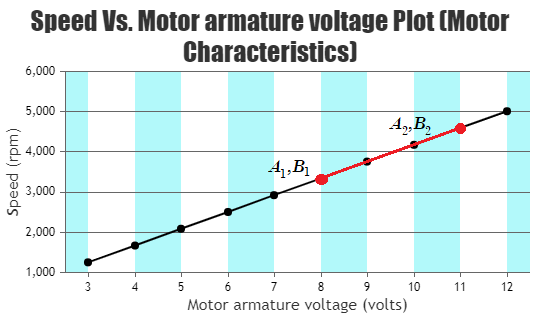
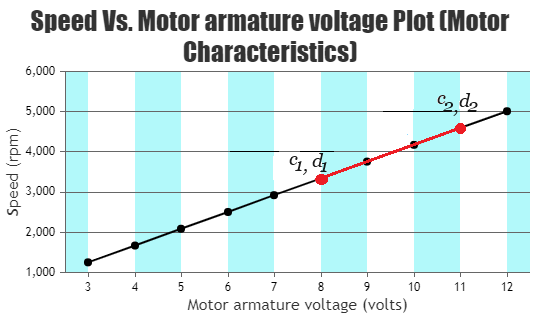
updatedmay14

Changed region(s): [[0.7111, 0.2804, 0.8889, 0.4361], [0.5037, 0.4673, 0.6222, 0.5607]]

diff --git a/experiment/simulation/js/demo.js b/experiment/simulation/js/demo.js
@@ -76,7 +76,7 @@ jsPlumb.ready(function () {
 					
 			endpoint_oven = {
             anchor: [0.5, 0.5, 0, -1],
-            connectorStyle: { strokeWidth: 10, stroke: "grey" },
+            connectorStyle: { strokeWidth: 9, stroke: "grey" },
             endpointsOnTop: true,
             isSource: true,
             maxConnections: 1,
@@ -90,7 +90,7 @@ jsPlumb.ready(function () {
             return instance_black.addEndpoint(elId, endpoint_oven);
 					},
 					
-					endpoint_oven2 = {
+					endpoint_ovenlod = {
             anchor: [0.5, 0.5, 0, -1],
             connectorStyle: { strokeWidth: 15, stroke: "grey" },
             endpointsOnTop: true,
@@ -100,10 +100,10 @@ jsPlumb.ready(function () {
             dropOptions: { tolerance: "touch", hoverClass: "dropHover" }
         },
 
-		prepare_oven2 = function (elId) {
+		prepare_ovenlod = function (elId) {
             initAnimation(elId);            			
 			
-            return instance_black2.addEndpoint(elId, endpoint_oven2);
+            return instance_ovenlod.addEndpoint(elId, endpoint_ovenlod);
 					},					
 					
 
@@ -137,9 +137,9 @@ jsPlumb.ready(function () {
         Container: "canvas"
     });
 	
-	instance_black2 = jsPlumb.getInstance({
+	instance_ovenlod = jsPlumb.getInstance({
         DragOptions: { cursor: 'wait', zIndex: 20 },
-        Endpoint: [ "Image", { url: "./images/ovendot.png" } ],
+        Endpoint: [ "Image", { url: "./images/loddot.png" } ],
         Connector: [ "Bezier", { curviness:80 } ],
         Container: "canvas"
     });
@@ -178,8 +178,7 @@ jsPlumb.ready(function () {
             e.stopPropagation();
             instance.detachEveryConnection();
         });*/
-		
-		
+				
              instance.connect({ source: e5, target: e6 });
 			 
 			 //delete clicked connection

diff --git a/experiment/simulation/index.html b/experiment/simulation/index.html
@@ -102,16 +102,15 @@ font-style: italic;
 
             </div><!--First col under 2nd row end-->
             <div class="col-md-6"><!--2nd col under 2nd row start-->
-                <p class="h1"> <b>Simulation </b> </p>
+                <p class="h1"> <b>Simulation</b> </p>
             </div><!--2nd col under 2nd row end-->
             <div class="col-md-3"><!--3rd col under 2nd row start-->
 
             </div><!--3rd col under 2nd row end-->
         </div><!--2nd row under 1st container end-->
         <hr>
-       
+        
     </div><!--First Container under body tag end-->
-    
     
 	
     <div class="container p-3 my-5 text-left border"><!--3rd Container under body tag start-->
@@ -469,7 +468,7 @@ font-style: italic;
 		
 	 
 			<div class="col-md-12">
-				<div id = "plotbucket" class="content-center" style="display:none; position :relative; border:3px solid white;height:530px;width:823px ">
+				<div id = "plotbucket" class="content-center" style="display:none; position: relative; border:3px solid white;height:530px;width:823px ">
 				<button type="button" id="exportChart" class="btn btn-primary"  style="display:none;position:absolute;left:20%;">Download Plot</button>
 				<button type="button" id="result" class="btn btn-primary" onclick="Refresh()"  style="display:none;position:absolute;left:35%">OK</button><br/><br/>
 					<div id="chartContainer"  style="display:none; position:absolute; height: 50%; width: 40%;z-index:1 "></div>

diff --git a/experiment/simulation/css/DC.css b/experiment/simulation/css/DC.css
@@ -130,19 +130,20 @@ tr:nth-child(odd) {
   }
    #bd5{
     position: absolute;
-    left: 74%;
-    bottom: 6%;
+    left: 44%;/*74%;*/
+    bottom: 17%;/*6%;*/
     padding: 4px;
 	
   }
 
  #bd6{
     position: absolute;
-    left: 93.8%;
-    bottom: 85.2%;
+    left: 49.8%;/*93.8%;*/
+    bottom: 99%;/*85.2%;*/
     padding: 4px;
     visibility: hidden;
  }
+
 
  .fontCss{
   font-family:'Bodoni MT';
@@ -153,6 +154,12 @@ tr:nth-child(odd) {
   font-family:'Bodoni MT';
   
   font-style: italic; 
+  }
+  .fontCss3{
+  font-family:'Georgia';
+  
+  font-style: italic; 
+  font-weight: 400;
   }
 
 

diff --git a/experiment/simulation/js/DC.js b/experiment/simulation/js/DC.js
@@ -548,11 +548,11 @@ document.getElementById('chartContainer').style.display  = "none";
 	  
 	  axisX:{
         interlacedColor: "#B2F9FA",
-        title: "Time (sec.)"
+        title: "Time (sec)"
       },
     axisY: [
 	      {/////output Y axis
-            title: "Motor speed(ω (t))",
+            title: "Motor speed ω(t)",
 			
 			//maximum:0.03,
         }		

diff --git a/experiment/theory.md b/experiment/theory.md
@@ -1,8 +1,7 @@
 # Theory
 
 The first step in the analysis of control system is to derive its mathematical model to understand the working of the complete system.
-<br><br>
-
+               			   
 <b>The Plant (Coupled-DC Motor-Generator Set):</b><br/>
 
 In a dc motor, an armature rotates inside a magnetic field. The basic working principle of a dc motor is based on the fact that when ever
@@ -17,7 +16,7 @@ the operation of a dc motor.
 
 <div align="center" >				
 <img alt="" class="img-fluid" src="./images/pmdc.png" class="img-fluid"><br/>
-<b>Fig 1: Permanent Magnet DC Motor</b>
+<b>Fig. 1. Permanent Magnet DC Motor</b>
 </div><br>
 
 <br/><b>Mechanical Section:</b><br/>
@@ -43,11 +42,11 @@ The specifications of the main experimental dc motor are:<br/>
 The field poles of this motor are essentially made of permanent magnet. This motor mainly consists of two parts.
 A stator and an armature. Here the stator is a steel cylinder. The magnets are mounted in the inner periphery of this cylinder.
 The permanent magnets are mounted in such a way that the N-pole and S-pole of each magnet are alternatively faced towards the armature
-as shown in the fig 2.
+as shown in the Fig. 2.
 
 <div align="center">				
 <img alt="" class="img-fluid" src="./images/t1.png" class="img-fluid"><br/>
-<b>Fig 2: Cross section of PMDC Motor</b>
+<b>Fig. 2. Cross section of PMDC Motor</b>
 </div><br>				
 
 <br/><b>Working Principle:</b><br/>
@@ -63,12 +62,12 @@ Each conductor of the armature experiences a force and the compilation of those 
 
 <div align="center">				
 <img alt="" class="img-fluid" src="./images/t2.png" class="img-fluid"><br/>
-<b>Fig 3: Schematic diagram of DC Motor</b>
+<b>Fig. 3. Schematic diagram of DC Motor</b>
 </div><br>
 
 <b>DC Motor model </b><br>
 
-The schematic diagram of a dc motor is shown in fig 3 where the following notations are used<br>
+The schematic diagram of a dc motor is shown in Fig. 3 where the following notations are used<br>
 <span class="fontCss">e<sub>a</sub></span> : Armature voltage (volts)<br>
 <span class="fontCss">i<sub>a</sub></span> : Armature current (amp.)<br>
 <span class="fontCss2">R<sub>a</sub></span> : Armature resistance (ohms)<br>
@@ -147,7 +146,12 @@ $$T_M = K_T I_a = \frac{-K_T K_b}{R_a}\omega + \frac{K_T}{R_a}E_a    -----(2)$$
 Here <span class="fontCss2">T<sub>M</sub>, E<sub>a</sub>, E<sub>b</sub></span>, <span class="fontCss2">I<sub>a</sub></span> and <span class="fontCss2">&omega;</span> are the steady state values of the motor torque, applied
 armature voltage, back emf, armature current and angular velocity of the shaft.<br/>
 
-A typical plot of the equation (2) is shown in fig 4. This assumes a linear torque-speed behaviour.<br/><br/>
+A typical plot of the equation (2) is shown in Fig. 4. This assumes a linear torque-speed behaviour.<br/><br/>
+
+<div align="center">				
+<img alt="" class="img-fluid" src="./images/t3.png" class="img-fluid"><br/>
+<b> Fig. 4. Torque - Speed Characteristics</b>
+</div><br>
 
 As the motor runs at a constant speed,<br/>
 Electrical power input, <span class="fontCss2">P<sub>in</sub> = E<sub>a</sub> &times; I<sub>a</sub></span> Watts <br/>
@@ -176,7 +180,7 @@ At steady state (<span class="fontCss2">&omega;</span> = constant) the load torq
 
 $$T_M = B \omega + T_L ...(4)$$ 
 
-$$Where, \ T_L \ = \ Load \ Torque$$
+where, <span class="fontCss2">T<sub>L</sub></span>  = Load Torque<br/><br/>
 
 
 
@@ -188,10 +192,7 @@ the following expression is used to compute	the motor torque <span class="fontCs
 
 $$T_M = K_T I_a = K_b I_a = \frac{E_b}{\omega} I_a = \frac{E_a - I_a R_a}{\omega} I_a .....(5)$$
 
-<div align="center">				
-<img alt="" class="img-fluid" src="./images/t3.png" class="img-fluid"><br/>
-<b> Fig 4: Torque - Speed Characteristics</b>
-</div><br>
+
 
 Two motor parameters, <span class="fontCss2">B</span> and <span class="fontCss2">K<sub>b</sub></span>, may therefore be determined from the torque-speed
 characteristics obtained under steady state conditions or constant speed operation of the motor. <br><br>
@@ -204,23 +205,25 @@ $$e_a(t) = E \ U(t), \ i.e. \ E_a(s) = \frac{1}{s}E$$
 
 The motor speed will follow the expression,
 
-$$\omega(t)= E \ K_M (1- e^\frac{-t}{\tau_m}), \ as \ shown \ in  \ fig \ 5$$
+$$\omega(t)= E \ K_M (1- e^\frac{-t}{\tau_m})$$
+
+as shown in Fig. 5<br/><br/>
 
 The step response is very similar to that of an RC circuit charging from a step voltage input.
-The parameters of interest <span class="fontCss2">E K<sub>M</sub></span> and <span class="fontCss">&tau;<sub>m</sub></span> are indicated in fig 5. 
+The parameters of interest <span class="fontCss2">E K<sub>M</sub></span> and <span class="fontCss">&tau;<sub>m</sub></span> are indicated in Fig. 5. 
 
 The steady state speed <span class="fontCss2">N</span>, and hence the value of <span class="fontCss2">K<sub>M</sub></span> can easily be computed or measured.
 
 $$\omega(t)\vert_{t\rightarrow\infty} = \omega_{ss} = E \ K_M$$
 
-$$or, \ K_M = \frac{N}{E} \frac{rpm}{volt} = \frac{\pi N}{30 E_a} \ \frac{rad/s}{volt}$$
+$$or, \ K_M = \frac{N}{E} \frac{rpm}{volt} = \frac{\pi N}{30 E} \ \frac{rad/s}{volt}$$
 
 <span class="fontCss">&tau;<sub>m</sub></span> is the time taken by the motor speed to rise from zero and attain 63.2% of 
 <i style="font-family:'Sitka Text'">&omega;<sub>ss</suab></i>, where <i style="font-family:'Sitka Text'">&omega;<sub>ss</suab></i> is the steady state speed (rad/s) of the motor.
 
 <div align="center">				
 <img alt="" class="img-fluid" src="./images/t4.png" class="img-fluid"><br/>
-<b>Fig 5: Step response of the motor</b>
+<b>Fig. 5. Step response of the motor</b>
 </div><br><br/>
 
 <b>Calculations from plots:</b><br/>
@@ -228,51 +231,53 @@ $$or, \ K_M = \frac{N}{E} \frac{rpm}{volt} = \frac{\pi N}{30 E_a} \ \frac{rad/s}
 <b>Calculation of the motor constant <span class="fontCss2">K<sub>M</sub></span> (rpm/volts), generator constant <span class="fontCss2">K<sub>G</sub></span> (volts/rpm) and viscous friction coefficient of motor (<span class="fontCss2">B</span>) :</b><br/>
 
 The motor constant <span class="fontCss2">K<sub>M</sub></span> is calculated from the plot 'Speed (<span class="fontCss2">N</span>) Vs. Motor armature voltage (<span class="fontCss2">E<sub>a</sub></span>)' as
-shown in fig 6. Consider a slope is taken between points (<span class="fontCss2">A<sub>2</sub>,B<sub>2</sub></span>) and (<span class="fontCss2">A<sub>1</sub>,B<sub>1</sub></span>) first. then the <span class="fontCss2">K<sub>M</sub></span> will be
+shown in Fig. 6. Consider a slope is taken between points (<span class="fontCss3">c<sub>2</sub>, d<sub>2</sub></span>) and (<span class="fontCss3">c<sub>1</sub>, d<sub>1</sub></span>) first. then the <span class="fontCss2">K<sub>M</sub></span> will be
 
-$$K_M = \frac{B_{2} - B_{1}}{A_{2} - A_{1}} \ rpm/volts$$
+$$K_M = \frac{d_{2} - d_{1}}{c_{2} - c_{1}} \ rpm/volts$$
 
-Where, <span class="fontCss2">B<sub>2</sub></span> is speed (rpm) of the motor at armature voltage of <span class="fontCss2">A<sub>2</sub></span> volts and 
-<span class="fontCss2">B<sub>1</sub></span> is speed (rpm) of the motor at armature voltage of <span class="fontCss2">A<sub>1</sub></span> volts.
+Where, <span class="fontCss3">d<sub>2</sub></span> is speed (rpm) of the motor at armature voltage of <span class="fontCss3">c<sub>2</sub></span> volts and 
+<span class="fontCss3">d<sub>1</sub></span> is speed (rpm) of the motor at armature voltage of <span class="fontCss3">c<sub>1</sub></span> volts.
 <br/>
 <div align="center">				
 <img alt="" class="img-fluid" src="./images/Chart1.jpg" class="img-fluid"><br/>
-<b>Fig 6: Motor constant <span class="fontCss2">K<sub>M</sub></span> calculation</b>
+<b>Fig. 6. Motor constant <span class="fontCss2">K<sub>M</sub></span> calculation</b>
 </div><br><br/>
 
 The generator constant <span class="fontCss2">K<sub>G</sub></span> is calculated from the plot 
 'Generator voltage (<span class="fontCss2">E<sub>g</sub></span>) Vs. Speed (<span class="fontCss2">N</span>)' as
-shown in fig 7. Consider a slope is taken between points (<span class="fontCss2">A<sub>2</sub>,B<sub>2</sub></span>) and (<span class="fontCss2">A<sub>1</sub>,B<sub>1</sub></span>) first. Then the <span class="fontCss2">K<sub>G</sub></span> will be
+shown in Fig. 7. Consider a slope is taken between points (<span class="fontCss3">c<sub>2</sub>, d<sub>2</sub></span>) and (<span class="fontCss3">c<sub>1</sub>, d<sub>1</sub></span>) first. Then the <span class="fontCss2">K<sub>G</sub></span> will be
 
-$$K_G = \frac{B_{2} - B_{1}}{A_{2} - A_{1}} \ volts/rpm$$
+$$K_G = \frac{d_{2} - d_{1}}{c_{2} - c_{1}} \ volts/rpm$$
 
-Where, <span class="fontCss2">B<sub>2</sub></span> is generator voltage (volts) at speed of <span class="fontCss2">A<sub>2</sub></span> rpm and 
-<span class="fontCss2">B<sub>1</sub></span> is generator voltage (volts) at speed of <span class="fontCss2">A<sub>1</sub></span> rpm.
+Where, <span class="fontCss3">d<sub>2</sub></span> is generator voltage (volts) at speed of <span class="fontCss3">c<sub>2</sub></span> rpm and 
+<span class="fontCss3">d<sub>1</sub></span> is generator voltage (volts) at speed of <span class="fontCss3">c<sub>1</sub></span> rpm.
 <br/>
 <div align="center">				
 <img alt="" class="img-fluid" src="./images/Chart2.jpg" class="img-fluid"><br/>
-<b>Fig 7: Generator constant <span class="fontCss2">K<sub>G</sub></span> calculation</b>
+<b>Fig. 7. Generator constant <span class="fontCss2">K<sub>G</sub></span> calculation</b>
 </div><br><br/>
 
 The viscous friction coefficient of motor (<span class="fontCss2">B</span>) is calculated from the plot 
 'Torque (<span class="fontCss2">T<sub>M</sub></span>) Vs. Speed (<span class="fontCss2">N</span>)' as
-shown in fig 8. Consider a slope is taken between points (<span class="fontCss2">A<sub>2</sub>,B<sub>2</sub></span>) and (<span class="fontCss2">A<sub>1</sub>,B<sub>1</sub></span>) first. Then the <span class="fontCss2">B</span> will be
+shown in Fig. 8. Consider a slope is taken between points (<span class="fontCss3">c<sub>2</sub>, d<sub>2</sub></span>) and (<span class="fontCss3">c<sub>1</sub>, d<sub>1</sub></span>) first. Then the <span class="fontCss2">B</span> will be
 
-$$B = \frac{B_{2} - B_{1}}{A_{2} - A_{1}} \ newton-meter/rpm$$
+$$B = \frac{d_{2} - d_{1}}{c_{2} - c_{1}} \ newton-meter/rpm$$
 
-Where, <span class="fontCss2">B<sub>2</sub></span> is torque (newton-meter) at speed of <span class="fontCss2">A<sub>2</sub></span> rpm and 
-<span class="fontCss2">B<sub>1</sub></span> is torque (newton-meter) at speed of <span class="fontCss2">A<sub>1</sub></span> rpm.
+Where, <span class="fontCss3">d<sub>2</sub></span> is torque (newton-meter) at speed of <span class="fontCss3">c<sub>2</sub></span> rpm and 
+<span class="fontCss3">d<sub>1</sub></span> is torque (newton-meter) at speed of <span class="fontCss3">c<sub>1</sub></span> rpm.
 Calculate <span class="fontCss2">B</span> in newton-meter/rad/sec. The negative sign in calculation will depict negative slope (ignore it for calculating the motor inertia <span class="fontCss2">J</span>).
 <br/>
 <div align="center">				
 <img alt="" class="img-fluid" src="./images/Chart3.png" class="img-fluid"><br/>
-<b>Fig 8: Viscous friction coefficient of motor (<span class="fontCss2">B</span>) calculation</b>
+<b>Fig. 8. Viscous friction coefficient of motor (<span class="fontCss2">B</span>) calculation</b>
 </div><br><br/>
 
 The motor inertia <span class="fontCss2">J</span> (newton-meter/rad/sec<sup>2</sup>) is calculated using the formula below (<span class="fontCss">&tau;<sub>m</sub></span> is taken in sec):
 
-$$J = \tau_m (B + \frac{{K_b}^2}{R_a}) \ where, \tau_m \ is \ the \ motor \ time \ constant \ and \ R_a = 4 \Omega$$
+$$J = \tau_m (B + \frac{{K_b}^2}{R_a})$$
 
+where, <span class="fontCss">&tau;<sub>m</sub></span> is the motor time constant and <span class="fontCss2">R<sub>a</sub></span> = 4 &ohm;
+				
 
 				
 <link href="./simulation/css/DC.css" rel="stylesheet">			    

diff --git a/README.md b/README.md
@@ -7,7 +7,7 @@
 <b>Discipline | <b> Electrical Engineering 
 :--|:--|
 <b> Lab | <b> **Control and Instrumentation Lab**
-<b> Experiment|     <b> **Study of DC Motor and Experiment 7**
+<b> Experiment|     <b> **Study of DC Motor**
 
 
 ### About the Experiment 
@@ -15,7 +15,7 @@
 
 DC motors are most commonly used as actuators in electro-mechanical control systems or servo mechanisms. Compared to actuators like 2-phase ac motor and stepper motor, the dc motor has the advantage of higher torque and simpler driving circuit. However the presence of a commutator and a set of brushes with the problems of 
 sparking make the dc motor less durable. 
-
+					
 The study of the dynamic characteristics of the dc motor is important because the overall performance of the control system depends on it.
 
 This experiment is designed to obtain the torque-speed characteristics, compute the various parameters and finally determine the transfer function of a dc motor.			  

diff --git a/.github/ISSUE_TEMPLATE/experiment-review-request.md b/.github/ISSUE_TEMPLATE/experiment-review-request.md
@@ -1,0 +1,16 @@
+---
+name: Experiment  Review Request
+about: 'Get your experiment reviewed '
+title: 'Request for Review of Experiment - '
+labels: request for review
+assignees: ''
+
+---
+
+## *Experiment  Review Request*
+Use this to get experiment reviewed.
+
+1. *Exp Name*:<!--Fill the name of the experiment-->
+2. *Domain*:<!-- Fill the domain/discipline that the experiment belongs to-->
+3. *Lab Name*:<!-- Fill the name of the lab that the experiment belongs to-->
+4. *Testing URL*:<!-- https://virtual-labs.github.io/${{ github.repository }} --!>

diff --git a/.github/ISSUE_TEMPLATE/pedagogy-review-request.md b/.github/ISSUE_TEMPLATE/pedagogy-review-request.md
@@ -1,0 +1,15 @@
+---
+name: Pedagogy Review Request
+about: Get your pedagogy reviewed
+title: Request for Review of Pedagogy
+labels: pedagogy
+assignees: ''
+
+---
+
+## *Pedagogy review Request*
+
+1. *Exp Name*:<!--Fill the name of the experiment-->
+2. *Domain*:<!-- Fill the domain/discipline that the experiment belongs to-->
+3. *Lab Name*:<!-- Fill the name of the lab that the experiment belongs to-->
+3. **Link to the pedagogy document**: { ../pedagogy/README.md]

diff --git a/experiment/references.md b/experiment/references.md
@@ -2,8 +2,8 @@
 #### Books
 
 1) Automatic Control Systems - Farid Golnaraghi, Benjamin C. Kuo (2009, Wiley)
-2) Modern Control Engineering - K. Ogata, Prentice Hall of India Pvt. Ltd.
-3) Electrical Machinery-Dr P S Bimbhra, Khanna Publishers
+2) Modern Control Engineering - K. Ogata, Prentice Hall, 2010
+3) Electrical Machinery-Dr P S Bimbhra, Khanna Publishers (2011)
 4) Principles of Electric Machines and Power Electronics-P. C. Sen ,Wiley (2013)
 
 

diff --git a/.github/ISSUE_TEMPLATE/storyboarding-review-request.md b/.github/ISSUE_TEMPLATE/storyboarding-review-request.md
@@ -1,0 +1,15 @@
+---
+name: Storyboarding Review Request
+about: Get your storyboarding reviewed
+title: Request for Review of Storyboard
+labels: storyboarding
+assignees: ''
+
+---
+
+## *Storyboarding review Request*
+
+1. **Exp Name**:<!--Name of the experiment-->
+2. **Domain**:<!-- Domain of the experiment-->
+3. **Discipline**:<!-- Discipline of the experiment-->
+4. **Link to the pedagogy document**: { ../storyboard/README.md]
